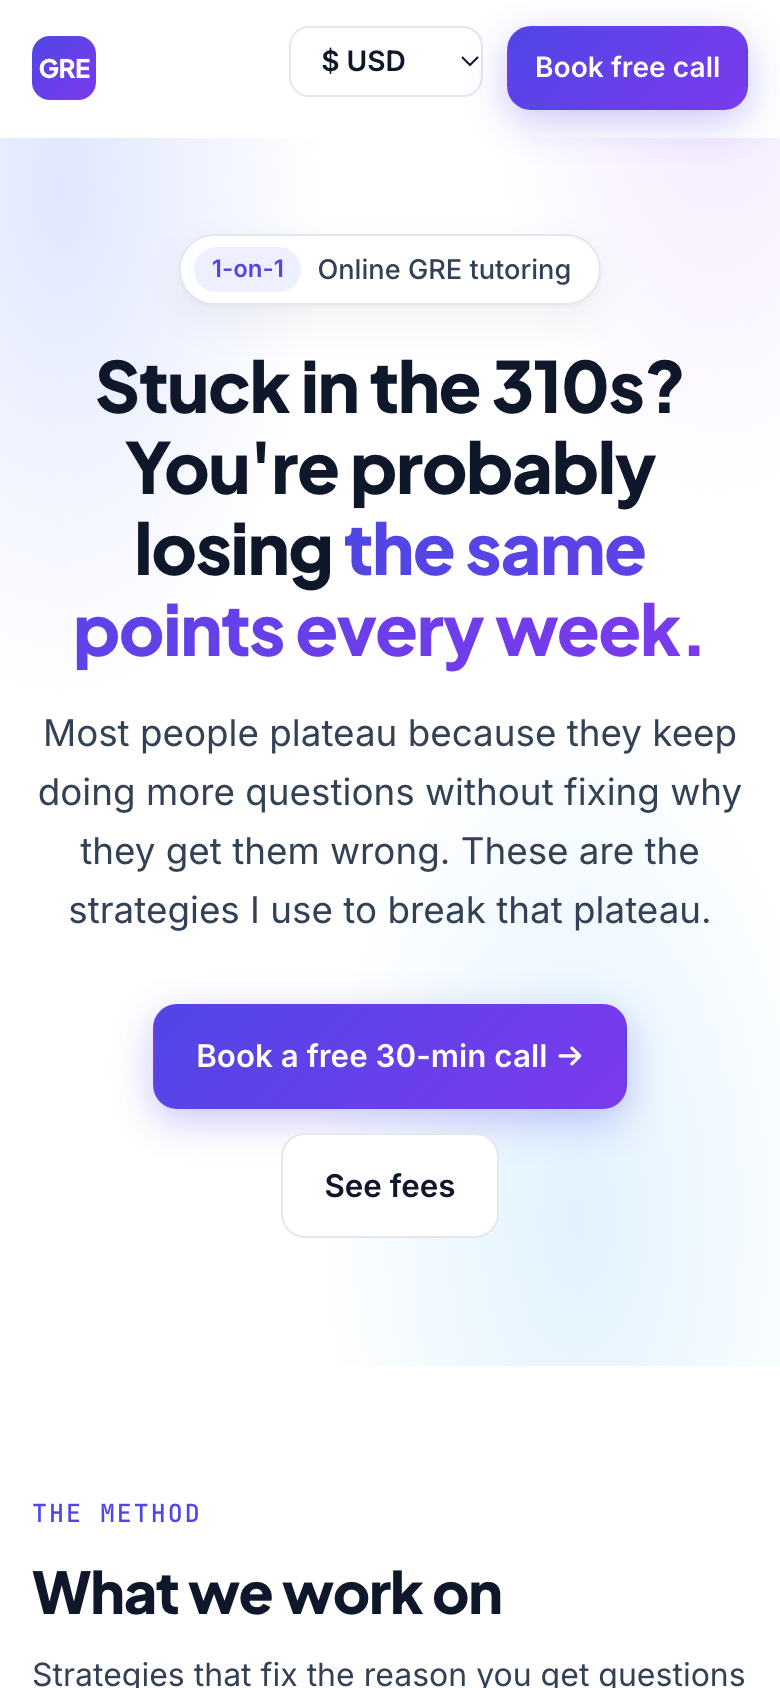
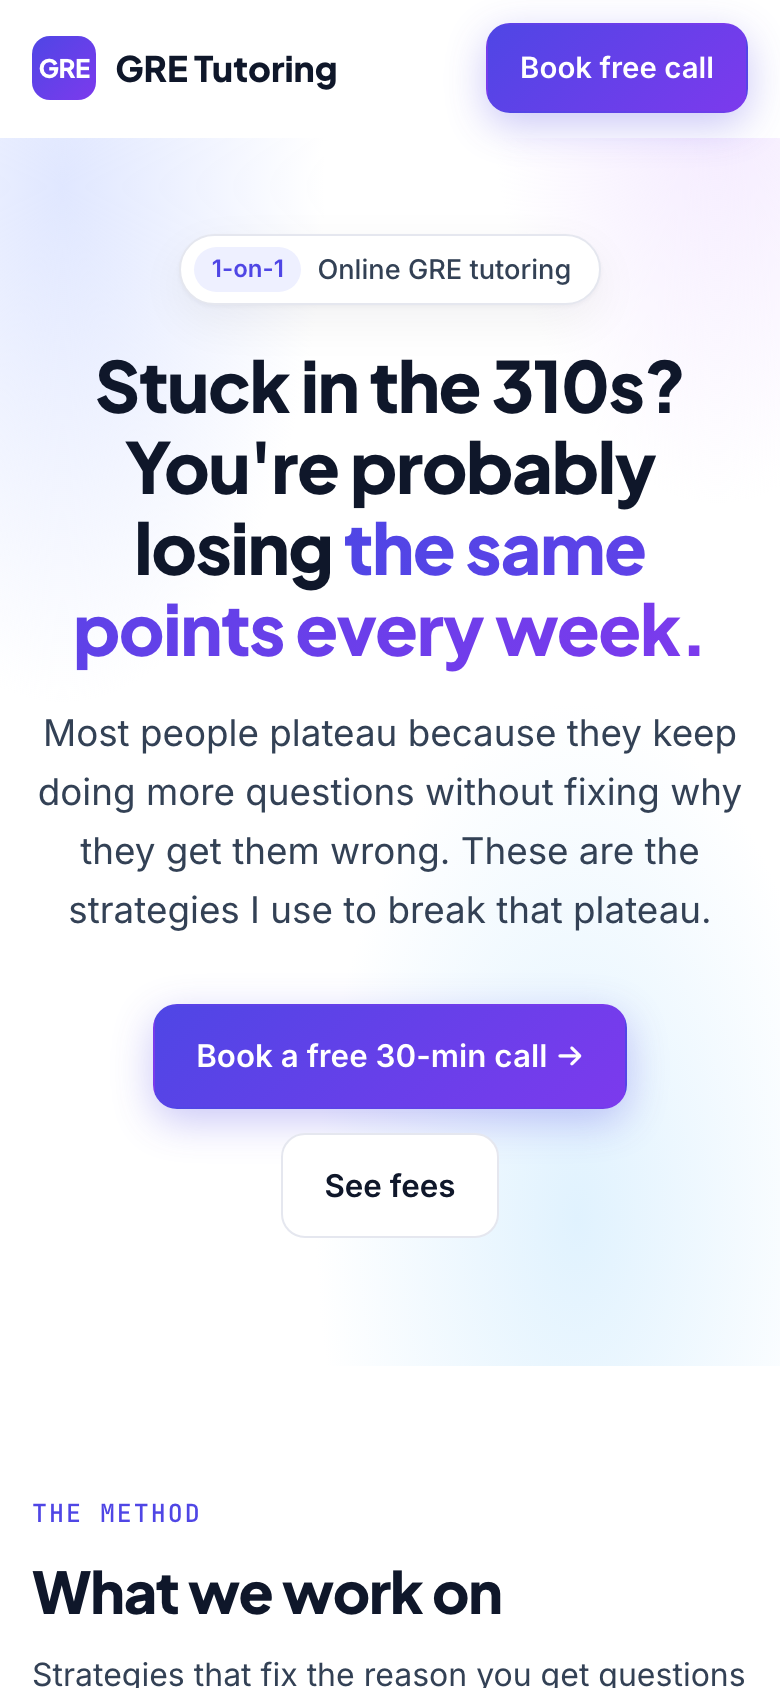
Remove currency dropdown; region comes only from the URL or visitor country
Ads link straight to /us and /eu, so the manual switcher and its saved
choice are gone. The phone top bar now fits the full logo again.
Screenshots retaken without the dropdown.

Changed region(s): [[0.6154, 0.0, 0.9231, 0.0924], [0.1538, 0.0308, 0.5231, 0.0616]]

diff --git a/index.html b/index.html
@@ -61,13 +61,11 @@ a{color:var(--brand);text-decoration:none}
 .nav-links a{color:var(--ink-2);font-weight:500;font-size:.95rem}
 .nav-links a:hover{color:var(--brand)}
 .nav .btn{padding:.6rem 1rem;font-size:.92rem}
-.cur select{width:auto;font-size:.88rem;font-weight:600;padding:.45rem 1.9rem .45rem .7rem;border-radius:10px;background-color:var(--card);cursor:pointer}
-.sr{position:absolute;width:1px;height:1px;overflow:hidden;clip:rect(0 0 0 0)}
 html.intl .india-only{display:none!important}
 html.pending .plans .price,html.pending .plans .per,html.pending [data-r="from"]{visibility:hidden}
-@media (max-width:760px){.nav-links{display:none}.cur{margin-left:auto}.nav .container{gap:.75rem}}
+@media (max-width:760px){.nav-links{display:none}.nav .btn{margin-left:auto}.nav .container{gap:.75rem}}
 .logo,.nav .btn{white-space:nowrap}
-@media (max-width:440px){.logo-word{display:none}.nav .btn{padding:.55rem .8rem;font-size:.88rem}.cur select{padding-right:1.6rem}}
+@media (max-width:340px){.logo-word{display:none}}
 
 /* hero */
 .hero{position:relative;overflow:hidden;padding:104px 0 112px}
@@ -211,8 +209,6 @@ footer .container{display:flex;flex-wrap:wrap;justify-content:space-between;gap:
     <nav class="nav-links" aria-label="Main">
       <a href="#method">Method</a><a href="#how">How it works</a><a href="#fees">Fees</a><a href="#apply">Contact</a>
     </nav>
-    <label class="cur"><span class="sr">Currency</span>
-      <select id="cur" aria-label="Currency"><option value="in">₹ INR</option><option value="us">$ USD</option><option value="eu">€ EUR</option></select></label>
     <a href="#apply" class="btn btn-primary">Book free call</a>
   </div>
 </header>
@@ -415,7 +411,7 @@ if ('IntersectionObserver' in window) {
 } else document.querySelectorAll('.reveal').forEach(el => el.classList.add('in'));
 
 // Regional pricing. /in, /us, /eu pick a region (vercel.json rewrites them to this page);
-// on "/" a saved choice wins, then the visitor's country from /api/geo, else India.
+// on "/" the visitor's country from /api/geo picks it, else India.
 const REGIONS = {
   in: { code: 'IN', from: '₹2,000', p1: '₹2,500', p10: '₹22,000', h10: '₹2,200', p20: '₹40,000', h20: '₹2,000',
         pay: 'Pay per pack via UPI or bank transfer.', intro: 'For paid sessions or a free tutoring spot.', phone: '+91' },
@@ -425,8 +421,6 @@ const REGIONS = {
         pay: 'Payment details are shared after the free call.', intro: 'For paid sessions.', phone: '+' },
 };
 const EURO_COUNTRIES = new Set('AT BE BG HR CY CZ DK EE FI FR DE GR HU IE IT LV LT LU MT NL PL PT RO SK SI ES SE IS LI NO CH'.split(' '));
-const store = { get: k => { try { return localStorage.getItem(k); } catch { return null; } },
-                set: (k, v) => { try { localStorage.setItem(k, v); } catch {} } };
 
 function applyRegion(key) {
   const r = REGIONS[key] || REGIONS.in;
@@ -435,7 +429,6 @@ function applyRegion(key) {
   document.documentElement.classList.remove('pending');
   document.getElementById('phone').placeholder = r.phone;
   document.getElementById('region').value = r.code;
-  document.getElementById('cur').value = key in REGIONS ? key : 'in';
   if (key !== 'in') { const fb = document.getElementById('free'); fb.checked = false; fb.dispatchEvent(new Event('change')); }
   if (window.clarity) clarity('set', 'region', r.code);
 }
@@ -443,8 +436,6 @@ function applyRegion(key) {
 (async function pickRegion() {
   const fromPath = location.pathname.replace(/\/+$/, '').slice(1).toLowerCase();
   if (fromPath in REGIONS) return applyRegion(fromPath);
-  const saved = store.get('region');
-  if (saved in REGIONS) return applyRegion(saved);
   document.documentElement.classList.add('pending');
   let key = 'in';
   try {
@@ -454,13 +445,6 @@ function applyRegion(key) {
   } catch {}
   applyRegion(key);
 })();
-
-document.getElementById('cur').addEventListener('change', e => {
-  const key = e.target.value;
-  store.set('region', key);
-  if (location.pathname.replace(/\/+$/, '').slice(1).toLowerCase() in REGIONS) history.replaceState(null, '', '/' + key + location.hash);
-  applyRegion(key);
-});
 
 const form = document.getElementById('req');
 const err = document.getElementById('err');
